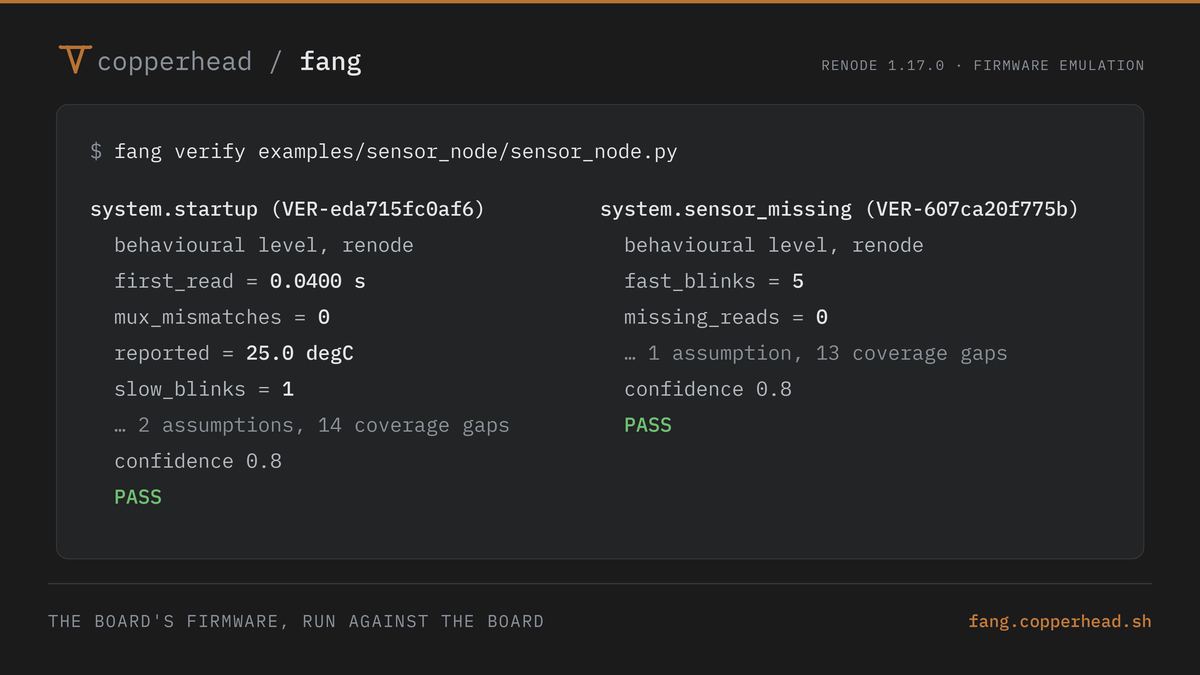
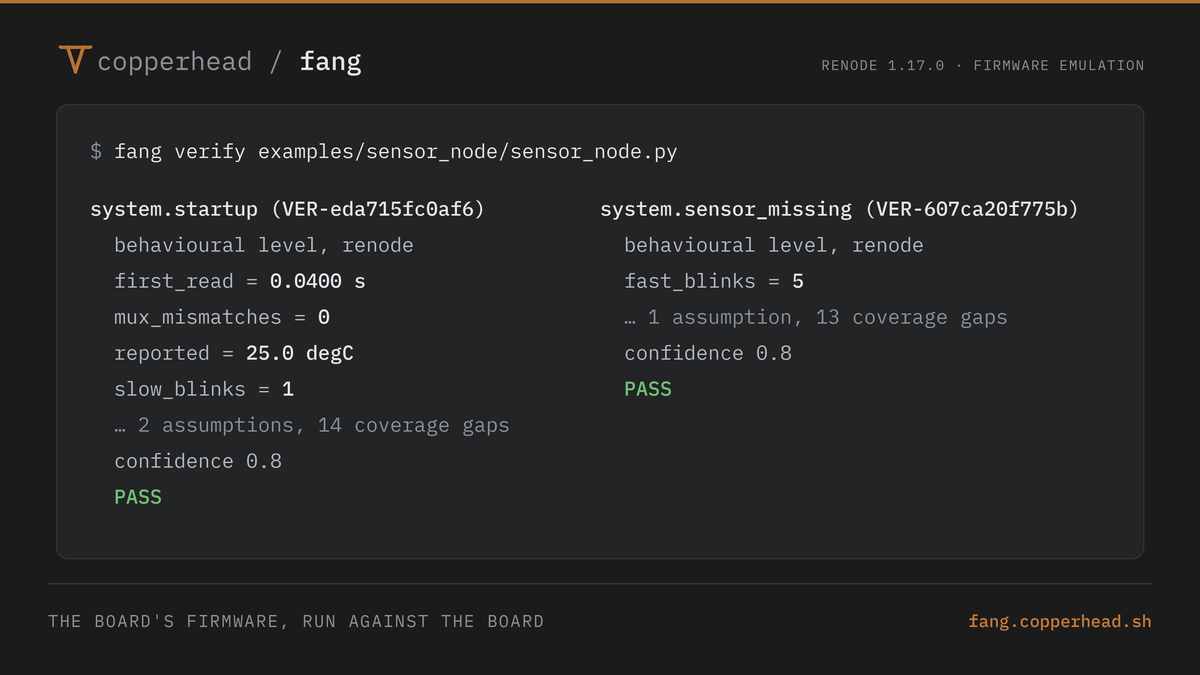
Redraw the social renders from the fixed emulation
The missing-sensor question no longer carries missing_reads, which could
not fail, so the shipping build meets five measures, not six; and a
measure that was not taken shows as undecided, so wrong_address.elf's
reported is undecided, not failed. The alt text says the same.

Changed region(s): [[0.5242, 0.4667, 0.8325, 0.56], [0.5242, 0.56, 0.6783, 0.5911], [0.5242, 0.6222, 0.555, 0.6533]]

diff --git a/site/social/README.md b/site/social/README.md
@@ -31,18 +31,19 @@ listing as `fang verify` prints it. The full listing, gaps and all, is
 - **emulation-run.png:** Terminal output of fang verify on
   examples/sensor_node. The startup question measures first_read 0.0400 s,
   mux_mismatches 0, reported 25.0 degC and slow_blinks 1, and passes. The
-  sensor_missing question measures fast_blinks 5 and missing_reads 0, and
-  passes. Both at the behavioural level in Renode, confidence 0.8.
+  sensor_missing question measures fast_blinks 5, and passes. Both at the behavioural level in Renode, confidence 0.8.
 - **emulation-caught.png:** One board, four firmware builds. The shipping
-  build meets all 6 measures and passes. wrong_address.elf never reads the
-  sensor in the 2 s run, against a 200 ms requirement, and fails.
+  build meets all 5 measures and passes. wrong_address.elf never reads the
+  sensor in the 2 s run, against a 200 ms requirement, and fails; it also
+  fails slow_blinks, and prints no temperature, which leaves reported
+  undecided.
   push_pull.elf has 2 I2C pins configured otherwise than the board requires,
   though every I2C transaction still succeeds, and fails. no_timeout.elf
   blinks the fault 0 times, against at least 4, and fails.
 - **emulation-square.png:** fang: Firmware against the board. The shipping
-  firmware meets six requirements in Renode 1.17.0: first_read 40.0 ms,
-  mux_mismatches 0, reported 25.0 °C, slow_blinks 1, fast_blinks 5,
-  missing_reads 0. Three broken builds each fail.
+  firmware meets five requirements in Renode 1.17.0: first_read 40.0 ms,
+  mux_mismatches 0, reported 25.0 °C, slow_blinks 1 and fast_blinks 5. Three
+  broken builds each fail.
 
 The alt text states the numbers on the images and is written by hand; redraw
 the images and read them against it.
